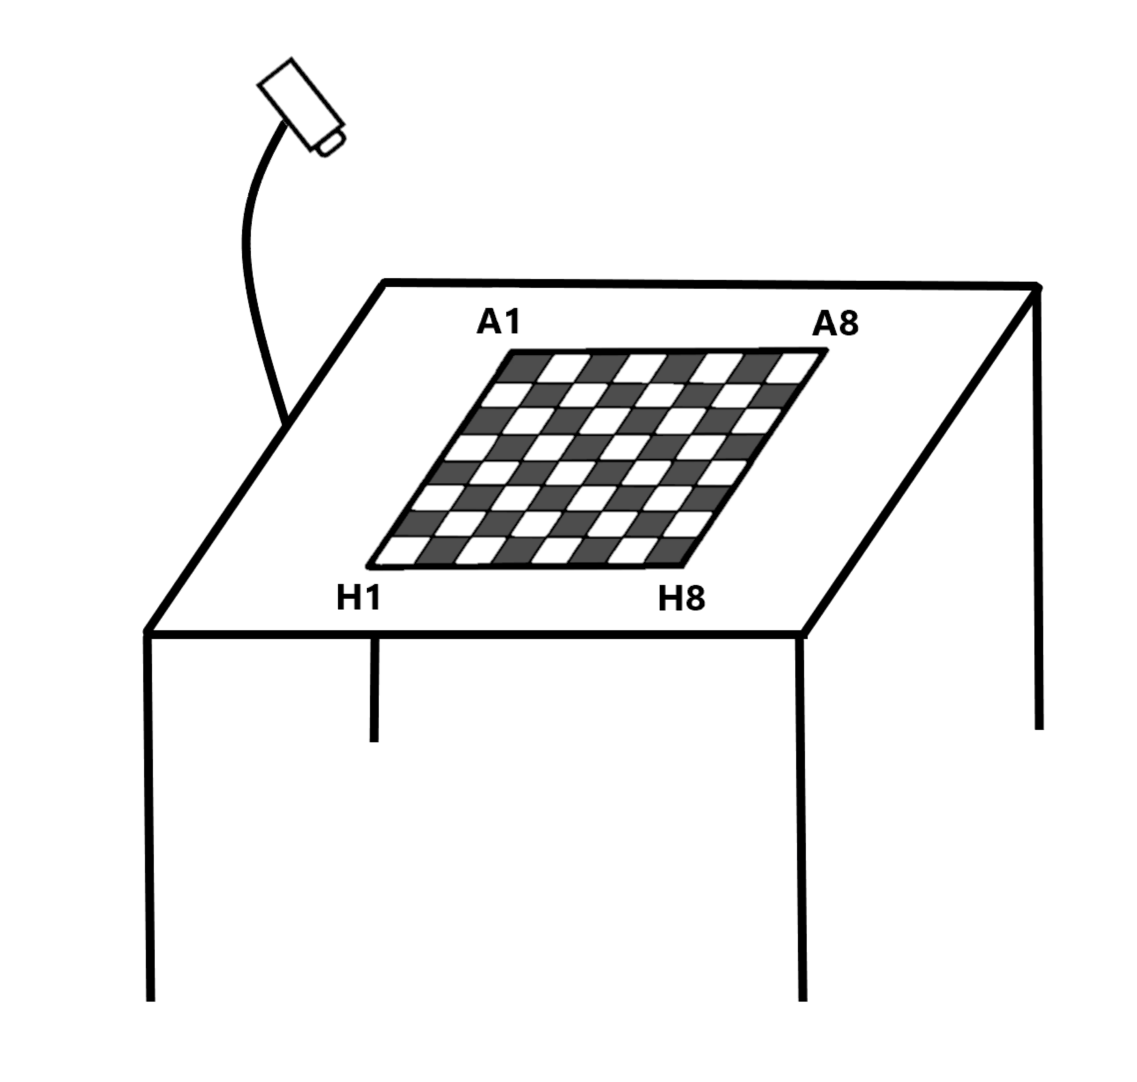
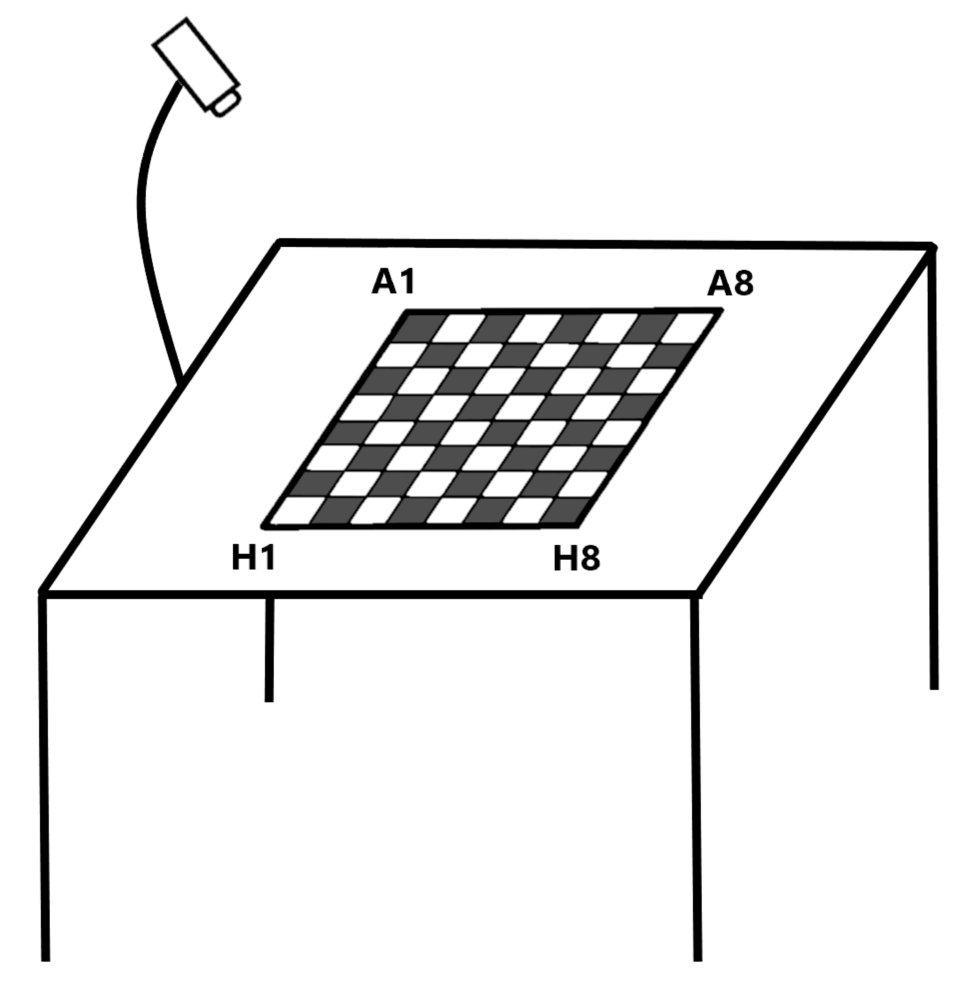
made testing image smaller, and making each section start on its own page

Changed region(s): [[0.0307, 0.0, 0.9826, 0.9736], [0.1535, 0.4564, 0.2149, 0.5477], [0.1228, 0.1521, 0.1535, 0.2738]]

diff --git a/chapters/05-method.tex b/chapters/05-method.tex
@@ -356,7 +356,7 @@ GitHub was used for both version control and task management. Issues in GitHub w
 \item \textbf{Postman} was employed for testing and validating \acrshort{rest}ful \glspl{api}, utilizing built-in JavaScript-based test snippets.
 \item \textbf{Netron.app} was used to visualize neural network architectures during the evaluation phase.
 \item \textbf{Git} facilitated version control and collaboration throughout the development process.
-\item \textbf{\glspl{llm}} (e.g., ChatGPT) were consulted to review code and provide suggestions, functioning as a collaborative assistant.
+\item \textbf{\glspl{llm}} (for example ChatGPT) were consulted to review code and provide suggestions, functioning as a collaborative assistant.
 \item \textbf{Lighthouse} was used to evaluate and improve the performance and accessibility of the developed web interface.
 \end{itemize}.
 
@@ -364,7 +364,9 @@ GitHub was used for both version control and task management. Issues in GitHub w
 \label{subsec:collaboration-and-design-tools}
 
 \begin{itemize}
-    \item \textbf{GitHub} was used for its built-in project management tool, which allowed the team to create an Issue Board for easy issue tracking. It was also used for code reviews and version control management.
+    \item \textbf{GitHub} was used for its integrated project management features, enabling the team to create an Issue Board for efficient tracking of tasks. It was also used for code reviews and version control.
+
+    
     
     \item \textbf{Figma} was used as a tool for sketching and creating wireframes.
     
@@ -373,6 +375,7 @@ GitHub was used for both version control and task management. Issues in GitHub w
     \item \textbf{Overleaf} was used as the platform for writing the report, utilizing its LaTeX support to efficiently compose and format the thesis.
 \end{itemize}
 
+\newpage
 
 \section{Technology Stack}
 \label{sec:technology-stack}
@@ -413,28 +416,30 @@ TypeScript was selected for the project's frontend language due to it's type-sef
     \item \textbf{react-dom} serves as the entry point to the DOM and server renderers for React. \cite{ts:react-dom}
 \end{itemize}
 
+\newpage
+
 \section{Testing}
 \label{sec:testing}
 
 \subsection{Model testing}
 \label{subsec:model-testing}
 
-\subsubsection*{Development}
-To streamline the development and testing of the machine learning model, a prerecorded video was utilized in place of a live camera feed. This approach enabled the simulation of a consistent and controlled environment where a chess game was played in video format. By using a static video instead of physically setting up the chessboard and camera for each iteration, the development cycle was significantly accelerated. This method allowed for rapid evaluation of the model's ability to detect both the board and the chess pieces under reproducible conditions.
+To streamline the development and testing of the machine learning model, a prerecorded video was utilized in place of a live camera feed. This approach enabled the simulation of a consistent and controlled environment where a chess game was played in video format. By using a static video instead of physically setting up the chessboard and camera for each iteration, the development cycle was significantly accelerated. This method allowed for rapid evaluation of the model's ability to detect both the board and the chess pieces under reproducible conditions. \\
 
-\subsubsection*{performance}
 The performance of the machine learning model was evaluated through 100 test games. Five distinct chess openings were selected, with 10 games played per opening on each of two board types: plastic and wooden. This resulted in 50 games per board type. Each game consisted of 15 full moves, corresponding to 15 moves by white and 15 moves by black. \\
 
 Each move was logged as either successful or unsuccessful. A 30-second window was provided for the model to detect and transmit each move, starting from the moment the move was made \gls{otb}. If the model failed to detect the move within this time frame, or if it detected the wrong move, it was marked as unsuccessful. The game concluded either when a move was marked unsuccessful or all 15 full moves had been completed. \\
 
-The webcam was mounted above the board at an angle of approximately 60–70\si{\degree} relative to the table surface. The white pieces were placed on the left side of the camera's field of view, and the black pieces on the right.
+The webcam was mounted above the board at an angle approximately 60–70\si{\degree} relative to the table surface. The white pieces were placed on the left side of the camera's field of view, and the black pieces on the right.
 
 \begin{figure}[h!]
     \centering
-    \includegraphics[width=0.75\linewidth]{figures/methods/testing/setup.png}
+    \includegraphics[width=0.55\linewidth]{figures/methods/testing/setup.png}
     \caption[Setup during testing]{Physical setup during testing, showing the board, camera position, and piece orientation.}
     \label{fig:setup}
 \end{figure}
+
+\newpage
 
 
 
